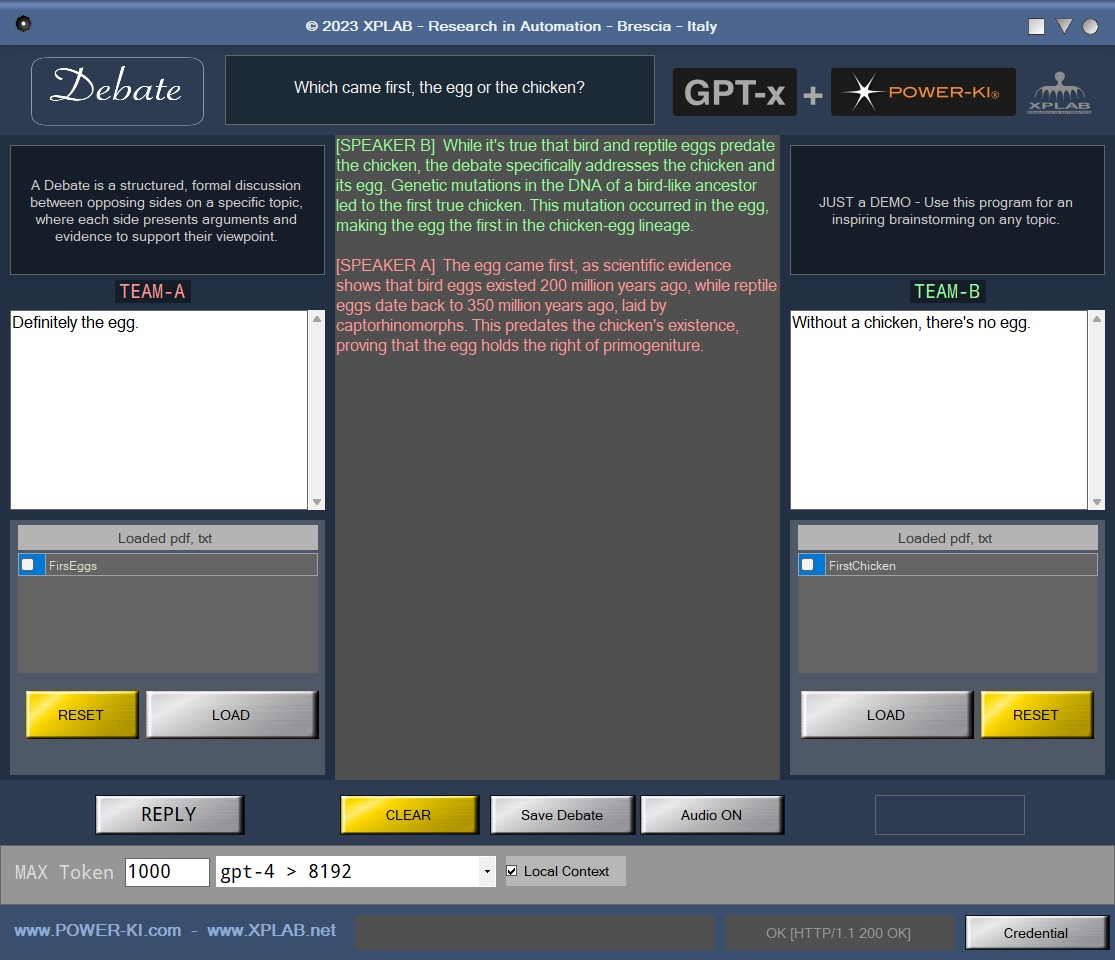
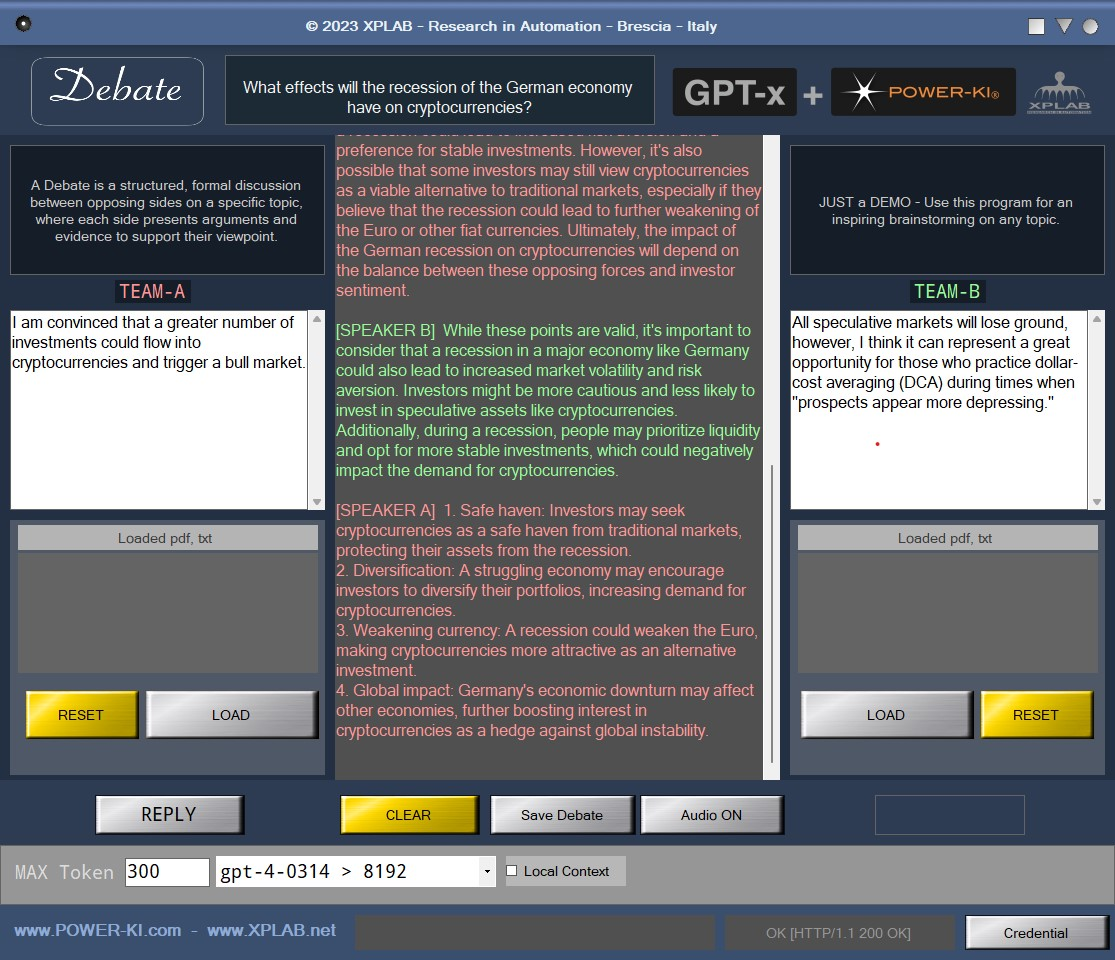
upd DEMO3 read.me

diff --git a/DEMO-03/READme.md b/DEMO-03/READme.md
@@ -43,6 +43,28 @@ Once this operation has been carried out, you access the main page
          alt="Main DEBAT page">
 </figure>
 
+# EXAMPLE
+For the topic of the picture, the complete debate text:
+
+'
+[SPEAKER A] 
+1. Safe haven: Investors may seek cryptocurrencies as a safe haven from traditional markets, protecting their assets from the recession.
+2. Diversification: A struggling economy may encourage investors to diversify their portfolios, increasing demand for cryptocurrencies.
+3. Weakening currency: A recession could weaken the Euro, making cryptocurrencies more attractive as an alternative investment.
+4. Global impact: Germany's economic downturn may affect other economies, further boosting interest in cryptocurrencies as a hedge against global instability.
+
+[SPEAKER B] While these points are valid, it's important to consider that a recession in a major economy like Germany could also lead to increased market volatility and risk aversion. Investors might be more cautious and less likely to invest in speculative assets like cryptocurrencies. Additionally, during a recession, people may prioritize liquidity and opt for more stable investments, which could negatively impact the demand for cryptocurrencies.
+
+[SPEAKER A] That's a valid counter-argument. It's true that a recession could lead to increased risk aversion and a preference for stable investments. However, it's also possible that some investors may still view cryptocurrencies as a viable alternative to traditional markets, especially if they believe that the recession could lead to further weakening of the Euro or other fiat currencies. Ultimately, the impact of the German recession on cryptocurrencies will depend on the balance between these opposing forces and investor sentiment.
+
+[SPEAKER B] I agree that the impact of the German recession on cryptocurrencies will depend on the balance between risk aversion and the search for alternative investments. For those who practice dollar-cost averaging (DCA), this could be an opportunity to invest in cryptocurrencies at lower prices, potentially benefiting from future market recoveries. However, it's essential for investors to carefully assess their risk tolerance and investment strategies during such uncertain times.
+
+[SPEAKER A] I concur with your assessment. The German recession's impact on cryptocurrencies will indeed be influenced by the balance between risk aversion and the pursuit of alternative investments. Dollar-cost averaging could be a viable strategy for some investors, allowing them to capitalize on potential market recoveries. However, it is crucial for investors to evaluate their risk tolerance and investment strategies in the face of economic uncertainty. In conclusion, the effects of the German recession on cryptocurrencies will vary depending on individual investor behavior and market sentiment.
+
+[SPEAKER B] I agree with your conclusion. The German recession's impact on cryptocurrencies will be determined by individual investor behavior, market sentiment, and the balance between risk aversion and the pursuit of alternative investments. Dollar-cost averaging may be a suitable strategy for some investors, but it is essential to carefully assess risk tolerance and investment strategies during uncertain times. With that said, I believe we have reached a common point and can consider this debate closed.
+'
+
+
 # GET the program:
 Starting from Build 35.23, this app is included in 
  <a href="https://github.com/POWER-KI/POWER-KI/raw/master/INSTALL-PACKAGE/Setup_PWK-EXC_PUB01.msi" download> POWER-KI executor</a> 
